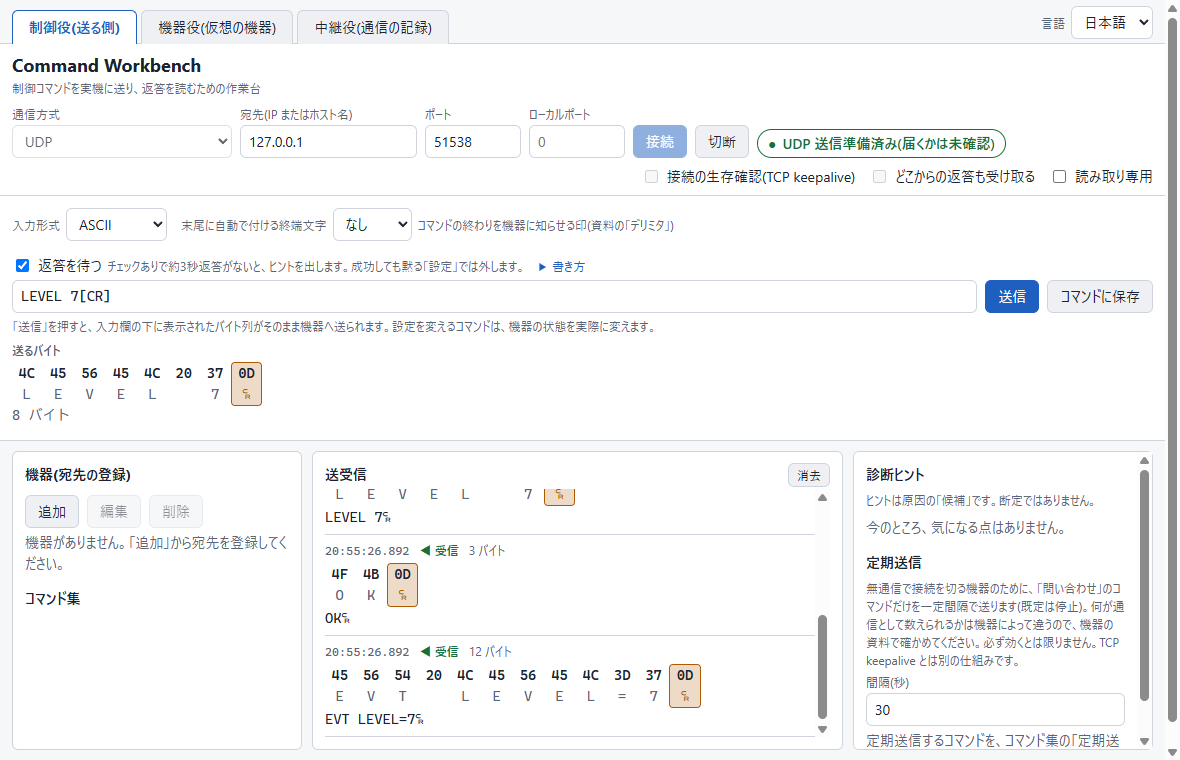
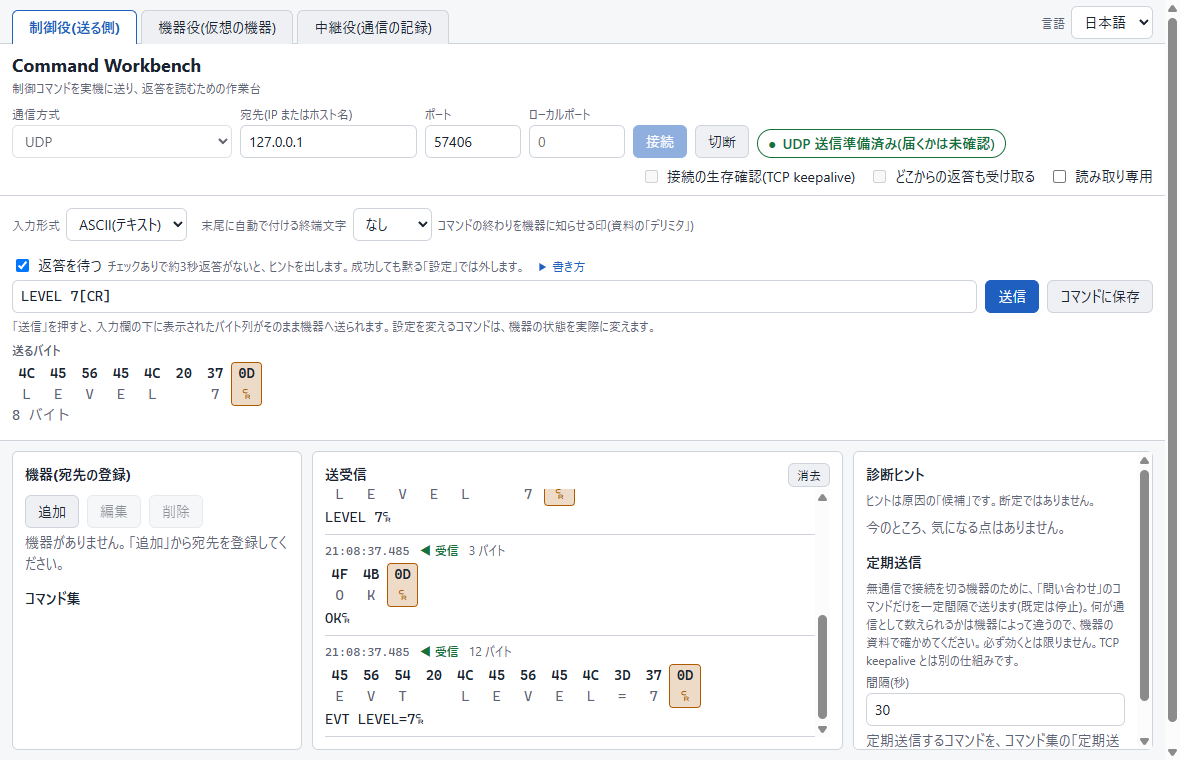
feat: warn about characters that are not ASCII in the composer
In the text input format, show a non-blocking warning that names the first
non-ASCII characters and their positions (full-width letters, spaces that are
not plain spaces, invisible characters, others), because text copied from a
manual often carries full-width forms that look like ASCII but make a device
stay silent. The bytes are still shown and sent as UTF-8.

- The text format is labelled "ASCII (text)" (JP: ASCII(テキスト)), next to
  "HEX".
- Guides, README and manual mention the warning; screenshots re-taken.

Changed region(s): [[0.0915, 0.2724, 0.5797, 0.3026], [0.2746, 0.8474, 0.3356, 0.8776], [0.3661, 0.1816, 0.3966, 0.2118]]

diff --git a/tests/renderer/logic.test.js b/tests/renderer/logic.test.js
@@ -155,6 +155,32 @@ test('parseTablePaste: a long cell is handled quickly (no pathological backtrack
   assert.ok(Date.now() - started < 1000);
 });
 
+test('findNonAscii: plain ASCII (including notation, tab and CR/LF) has nothing to warn about', () => {
+  assert.deepEqual(L.findNonAscii('PWR 1[CR]\t~{}\r\n'), { items: [], total: 0 });
+  assert.deepEqual(L.findNonAscii(''), { items: [], total: 0 });
+});
+
+test('findNonAscii: full-width letters, a full-width space, a no-break space and a zero-width space are named by kind, with 1-based positions', () => {
+  // U+FF30 U+FF37 U+FF32 U+FF1F are the full-width forms of "PWR?"; U+3000 is the ideographic space.
+  const found = L.findNonAscii('ＰＷＲ？　x', { limit: 10 });
+  assert.deepEqual(found.items.map((i) => [i.position, i.kind, i.code]), [
+    [1, 'fullwidth', 'FF30'], [2, 'fullwidth', 'FF37'], [3, 'fullwidth', 'FF32'], [4, 'fullwidth', 'FF1F'], [5, 'space', '3000'],
+  ]);
+  assert.equal(found.total, 5);
+  assert.deepEqual(L.findNonAscii('A B').items, [{ position: 2, char: ' ', code: '00A0', kind: 'space' }]);
+  assert.deepEqual(L.findNonAscii('AB').items.map((i) => i.kind), ['invisible']);
+  assert.deepEqual(L.findNonAscii('あ').items, [{ position: 1, char: 'あ', code: '3042', kind: 'other' }]);
+});
+
+test('findNonAscii: positions count characters, not UTF-16 units; the list is capped but the total is not', () => {
+  // The emoji is one character (two UTF-16 units), so the ideographic space after it is the 3rd character.
+  assert.deepEqual(L.findNonAscii('A\u{1F600}　').items.map((i) => [i.position, i.kind]), [[2, 'other'], [3, 'space']]);
+  const many = L.findNonAscii('あ'.repeat(10));
+  assert.equal(many.items.length, 3, 'three are listed by default');
+  assert.equal(many.total, 10);
+  assert.equal(L.findNonAscii('あ'.repeat(10), { limit: 1 }).items.length, 1);
+});
+
 test('parseTablePaste: only the first two columns are used, and notation inside a cell is kept', () => {
   assert.deepEqual(L.parseTablePaste('A[TAB]B\tC\tignored'), { rows: [{ command: 'A[TAB]B', reply: 'C' }], stripped: 0 });
 });

diff --git a/src/renderer/logic.js b/src/renderer/logic.js
@@ -153,5 +153,33 @@
     return { rows, stripped };
   }
 
-  return { parseTablePaste, visibleControls, formatClock, hexLine, charLine, nextDefaultName, withDevice, withoutDevice, withCommand, withoutCommand, describeFailure };
+  // Characters of a text-mode input that are not ASCII. They are still sent (as UTF-8 bytes), but many
+  // devices only understand ASCII, and text copied from a manual often carries full-width letters or
+  // spaces that look like ASCII on screen. `position` counts characters from 1, like the parse errors.
+  // kind: 'space' (spaces that are not U+0020), 'invisible' (zero-width), 'fullwidth' (full-width forms
+  // of ASCII, U+FF01-U+FF5E) or 'other'.
+  function classifyNonAscii(code) {
+    if (code === 0x3000 || code === 0x00a0 || (code >= 0x2000 && code <= 0x200a) || code === 0x202f || code === 0x205f) return 'space';
+    if ((code >= 0x200b && code <= 0x200d) || code === 0xfeff) return 'invisible';
+    if (code >= 0xff01 && code <= 0xff5e) return 'fullwidth';
+    return 'other';
+  }
+
+  function findNonAscii(text, { limit = 3 } = {}) {
+    const items = [];
+    let total = 0;
+    let position = 0;
+    for (const char of String(text)) {
+      position += 1;
+      const code = char.codePointAt(0);
+      if (code <= 0x7f) continue;
+      total += 1;
+      if (items.length < limit) {
+        items.push({ position, char, code: code.toString(16).toUpperCase().padStart(4, '0'), kind: classifyNonAscii(code) });
+      }
+    }
+    return { items, total };
+  }
+
+  return { findNonAscii, parseTablePaste, visibleControls, formatClock, hexLine, charLine, nextDefaultName, withDevice, withoutDevice, withCommand, withoutCommand, describeFailure };
 }));

diff --git a/src/renderer/i18n/ja.js b/src/renderer/i18n/ja.js
@@ -73,7 +73,7 @@
   'log.bytes': '{n} バイト',
 
   'composer.mode': '入力形式',
-  'composer.mode.text': 'ASCII',
+  'composer.mode.text': 'ASCII(テキスト)',
   'composer.mode.hex': 'HEX(16進)',
   'composer.terminator': '末尾に自動で付ける終端文字',
   'composer.terminator.help': 'コマンドの終わりを機器に知らせる印(資料の「デリミタ」)',
@@ -93,6 +93,12 @@
   'composer.preview.bytes': '{n} バイト',
   'composer.help.title': '書き方',
   'composer.help.body': '[CR] [LF] [CRLF] [NUL] [STX] [ETX] [ACK] [NAK] [ESC] [SP] などの名前、0x0D のような16進、\\r \\n \\t \\\\ のエスケープが使えます。16進を続けて書くときは 0x0D 0x0A のように空白で区切ってください。',
+  'warn.non_ascii': 'ASCII 以外の文字が含まれています: {items}。UTF-8 のバイト列として送られるので、機器によっては受け付けません。マニュアルからコピーした文字には、全角の英数字や空白が混ざることがあります。',
+  'warn.non_ascii.space': '{position} 文字目に、半角ではない空白(U+{code})',
+  'warn.non_ascii.invisible': '{position} 文字目に、見えない文字(U+{code})',
+  'warn.non_ascii.fullwidth': '{position} 文字目に、全角の「{char}」',
+  'warn.non_ascii.other': '{position} 文字目に、「{char}」(U+{code})',
+  'warn.non_ascii.more': 'ほか {count} 文字',
   'warn.terminator_doubled': '入力が既に終端(CR/LF)で終わっています。「自動で付ける終端」も選ばれているので、終端が二重に送られます。',
 
   'periodic.title': '定期送信',

diff --git a/src/renderer/i18n/en.js b/src/renderer/i18n/en.js
@@ -73,7 +73,7 @@
   'log.bytes': '{n} bytes',
 
   'composer.mode': 'Input format',
-  'composer.mode.text': 'ASCII',
+  'composer.mode.text': 'ASCII (text)',
   'composer.mode.hex': 'HEX',
   'composer.terminator': 'Terminator added automatically',
   'composer.terminator.help': 'The mark that tells the device where a command ends (the manual may call it a delimiter)',
@@ -93,6 +93,12 @@
   'composer.preview.bytes': '{n} bytes',
   'composer.help.title': 'Notation',
   'composer.help.body': 'You can use names such as [CR] [LF] [CRLF] [NUL] [STX] [ETX] [ACK] [NAK] [ESC] [SP], hex such as 0x0D, and the escapes \\r \\n \\t \\\\. When writing several hex bytes, separate them with spaces, like 0x0D 0x0A.',
+  'warn.non_ascii': 'The input has characters that are not ASCII: {items}. They are sent as UTF-8 bytes, which many devices do not accept. Text copied from a manual can contain full-width letters or spaces.',
+  'warn.non_ascii.space': 'a space that is not a plain space (U+{code}) at character {position}',
+  'warn.non_ascii.invisible': 'an invisible character (U+{code}) at character {position}',
+  'warn.non_ascii.fullwidth': 'a full-width "{char}" at character {position}',
+  'warn.non_ascii.other': '"{char}" (U+{code}) at character {position}',
+  'warn.non_ascii.more': '{count} more',
   'warn.terminator_doubled': 'The input already ends with a terminator (CR/LF) and an automatic terminator is also selected, so the terminator will be sent twice.',
 
   'periodic.title': 'Repeat sending',

diff --git a/src/renderer/app.js b/src/renderer/app.js
@@ -369,6 +369,16 @@
       box.appendChild(renderCells(result.rows));
       box.appendChild(el('div', 'muted', t('composer.preview.bytes', { n: result.length })));
       for (const code of result.warnings) S.previewMessages.push({ level: 'warn', text: t(`warn.${code}`) });
+      // Not an error: a device that takes UTF-8 gets it. The warning is for the common slip of
+      // full-width letters or spaces copied from a manual, which look like ASCII but are not.
+      if (spec.mode === 'text') {
+        const found = L.findNonAscii(spec.text);
+        if (found.total > 0) {
+          const parts = found.items.map((item) => t(`warn.non_ascii.${item.kind}`, { position: item.position, char: item.char, code: item.code }));
+          if (found.total > found.items.length) parts.push(t('warn.non_ascii.more', { count: found.total - found.items.length }));
+          S.previewMessages.push({ level: 'warn', text: t('warn.non_ascii', { items: parts.join(', ') }) });
+        }
+      }
     } else if (Array.isArray(result.errors)) {
       for (const error of result.errors) S.previewMessages.push({ level: 'error', text: t(`parse.${error.code}`, { position: error.position }) });
     } else {

diff --git a/manual/manual_JP.html b/manual/manual_JP.html
@@ -174,7 +174,7 @@
 
 <h3>入力形式</h3>
 <ul>
-  <li><strong>ASCII</strong>(既定): 上の表の書き方が使えます。日本語など ASCII にない文字は UTF-8 のバイトで送ります。Shift_JIS などを期待する機器には、次の HEX で直接指定してください。</li>
+  <li><strong>ASCII(テキスト)</strong>(既定): 上の表の書き方が使えます。日本語など ASCII にない文字は UTF-8 のバイトで送ります(送れますが、含まれていると、位置を示す警告が出ます。マニュアルからコピーした全角の英数字や空白に気づくためです)。Shift_JIS などを期待する機器には、次の HEX で直接指定してください。</li>
   <li><strong>HEX(16進)</strong>: <code>47 45 54 50 57 52 0D</code> のように、生のバイトを並べて入力します。</li>
 </ul>
 <p>16進数を続けて書くときは、<code>0x0D 0x0A</code> のように<strong>空白で区切って</strong>ください。<code>0x0D0x0A</code> は、読み間違いを防ぐために、わざとエラーにしています。</p>

diff --git a/manual/manual.html b/manual/manual.html
@@ -174,7 +174,7 @@
 
 <h3>Input format</h3>
 <ul>
-  <li><strong>ASCII</strong> (default): the notation in the table works. Characters outside ASCII, such as Japanese, are sent as UTF-8 bytes. For a device that expects Shift_JIS or another encoding, give the bytes directly in HEX.</li>
+  <li><strong>ASCII (text)</strong> (default): the notation in the table works. Characters outside ASCII, such as Japanese, are sent as UTF-8 bytes (they are sent, but a warning shows where they are, so that full-width letters or spaces copied from a manual do not go unnoticed). For a device that expects Shift_JIS or another encoding, give the bytes directly in HEX.</li>
   <li><strong>HEX</strong>: type raw bytes, such as <code>47 45 54 50 57 52 0D</code>.</li>
 </ul>
 <p>When you write several hexadecimal values in a row, <strong>separate them with spaces</strong>, as in <code>0x0D 0x0A</code>. <code>0x0D0x0A</code> is deliberately an error, to prevent misreading.</p>

diff --git a/README.md b/README.md
@@ -72,7 +72,7 @@ The screen is available in Japanese and English.
 
 - Write several hex bytes with spaces between them: `0x0D 0x0A`. `0x0D0x0A` is rejected on purpose.
 - Choose **HEX** as the input format to type raw bytes such as `47 45 54 50 57 52 0D`.
-- The **ASCII** input format also takes the names and escapes above. Characters outside ASCII (Japanese, for example) are sent as **UTF-8** bytes; a device that expects another encoding (such as Shift_JIS) needs the bytes typed in **HEX**. The bytes shown under the input box are exactly what is sent.
+- The **ASCII (text)** input format also takes the names and escapes above. Characters outside ASCII (Japanese, for example) are sent as **UTF-8** bytes, with a warning that shows where they are (full-width letters and spaces copied from a manual look like ASCII but are not); a device that expects another encoding (such as Shift_JIS) needs the bytes typed in **HEX**. The bytes shown under the input box are exactly what is sent.
 - **Terminator added automatically** appends CR, LF or CR+LF. If your input already ends with a terminator and an automatic one is also selected, a warning is shown, because the terminator would be sent twice.
 - Anything the notation cannot read is explained with its position instead of being guessed.
 
